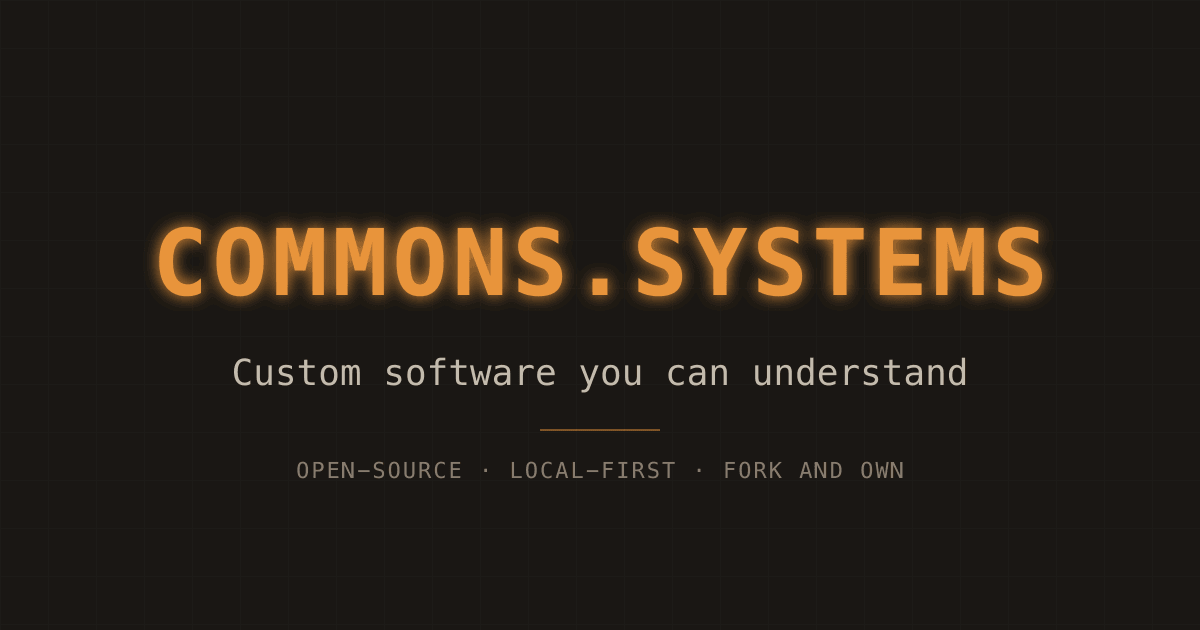
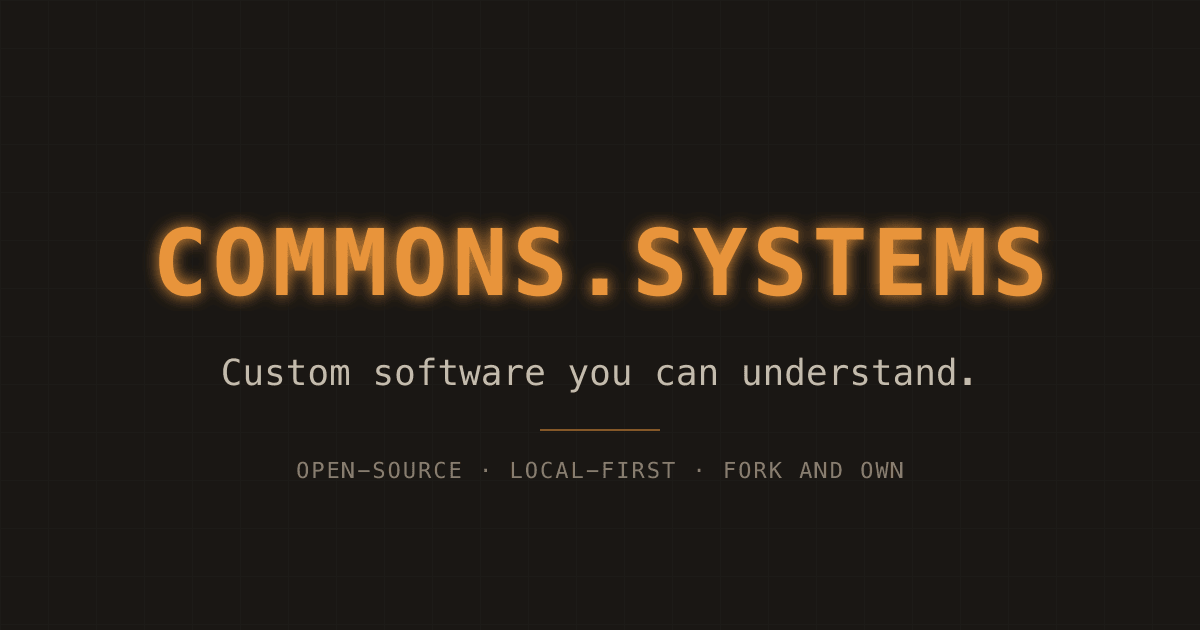
landing: add period to tagline; fill hero scaffold with placeholder
QA iteration 1 for #277 surfaced two issues:

- Tagline now reads 'Custom software you can understand.' so it
  parses as a complete sentence. Updated in index.html, the OG card
  SVG, and the hero acceptance spec; og-card.png regenerated.
- The empty landing-hero scaffold gave no visible area to review
  layout against. Added a clearly-labeled placeholder (an amber
  interstitial band above a three-card grid) so the band, margin
  spacing, and stacking between the sticky header and .content-grid
  can be verified during QA. Sibling issue #531 will replace this
  placeholder with the real 'This is not an app' band, app cards,
  and dependency table.

Changed region(s): [[0.185, 0.573, 0.8325, 0.6333]]

diff --git a/landing/index.html b/landing/index.html
@@ -13,10 +13,18 @@
     <div class="page">
       <header>
         <h1>commons.systems</h1>
-        <p class="tagline">Custom software you can understand</p>
+        <p class="tagline">Custom software you can understand.</p>
         <nav><app-nav id="nav"></app-nav><button id="panel-toggle" class="panel-toggle" aria-label="Toggle info panel" aria-expanded="false">&#9656;</button></nav>
       </header>
-      <section class="landing-hero" aria-label="Featured"></section>
+      <section class="landing-hero" aria-label="Featured">
+        <!-- Placeholder for #531 (app showcase grid). Replaced when sibling ships. -->
+        <div class="landing-hero-band" data-placeholder="true">This is not an app. (placeholder band)</div>
+        <div class="landing-hero-grid" data-placeholder="true">
+          <div class="landing-hero-card">Budget (placeholder)</div>
+          <div class="landing-hero-card">Audio (placeholder)</div>
+          <div class="landing-hero-card">Print (placeholder)</div>
+        </div>
+      </section>
       <div class="content-grid">
         <main id="app"></main>
         <aside id="info-panel" class="sidebar"></aside>

diff --git a/landing/src/style/theme.css b/landing/src/style/theme.css
@@ -64,3 +64,27 @@ main {
 .landing-hero:empty {
   margin-block: 0;
 }
+
+.landing-hero-band {
+  background: var(--accent, #e8943a);
+  color: #1a1714;
+  padding: 1rem 1.5rem;
+  margin-block-end: 1.5rem;
+  font-family: "IBM Plex Mono", ui-monospace, Menlo, Consolas, "DejaVu Sans Mono", monospace;
+  text-align: center;
+}
+.landing-hero-grid {
+  display: grid;
+  grid-template-columns: repeat(3, minmax(0, 1fr));
+  gap: 1rem;
+}
+.landing-hero-card {
+  border: 1px solid rgba(224, 216, 200, 0.15);
+  padding: 2rem 1rem;
+  text-align: center;
+  font-family: "IBM Plex Mono", ui-monospace, Menlo, Consolas, "DejaVu Sans Mono", monospace;
+  color: var(--muted, #8a7d6e);
+}
+@media (max-width: 768px) {
+  .landing-hero-grid { grid-template-columns: 1fr; }
+}

diff --git a/landing/e2e/hero.spec.ts b/landing/e2e/hero.spec.ts
@@ -10,7 +10,7 @@ test.describe("hero band", () => {
 
     const tagline = page.locator(".page > header .tagline");
     await expect(tagline).toBeVisible();
-    await expect(tagline).toHaveText("Custom software you can understand");
+    await expect(tagline).toHaveText("Custom software you can understand.");
 
     const taglineBox = await tagline.boundingBox();
     const viewport = page.viewportSize();
